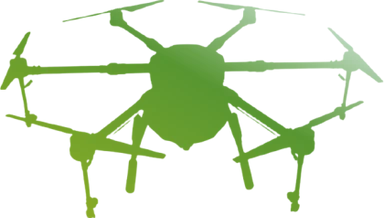
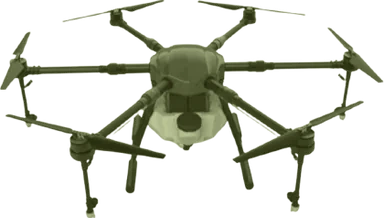
Brand-colour the skill marks, unbox the tab rails, separate the timeline
The colourise pass poured a gradient through each logo's alpha channel, which
filled the silhouette and discarded the picture inside it. It now builds a
duotone: luminance from the original artwork, hue from the brand, with both
ends of the ramp pinned to fixed luminance targets so a dark brand like
PhenoCam's green still has tonal range to work with. Every mark keeps its shape
and carries its own colour, so the second detail layer painted over the top is
gone along with the photographic special-case it needed.

The Education/Experience and Field instruments/Software switchers drew a border
around a box that held bordered buttons — two hard rectangles around one
control. One hairline runs under the rail now and the active tab claims a
segment of it in the accent ink, the same rule the section headings use.

Education and work entries had nothing between them but padding. A rule now
runs the length of the list with each institution's mark as a node on it, and
a hairline closes off every entry.

Also:

- Kasi wears the site's stock. It was white-on-blur with white borders, which
  read as a different product bolted onto the corner; it is now the page's own
  paper and grain behind the same frosted glass.
- On a phone, a publication's figure was the last cell of a one-column grid, so
  it stranded at the bottom of the card a screen below the paper it belongs to.
  Below the three-column breakpoint it sits under the title instead.
- The map moves below the contact form.
[…]

diff --git a/src/app/globals.css b/src/app/globals.css
@@ -292,6 +292,47 @@
     z-index: 1;
   }
 
+  /* Degrees and posts used to sit in one undivided run with nothing but
+     padding between them. A single rule now travels the length of the list and
+     every entry hangs its mark on it, with a hairline closing each entry off —
+     one sequence with visible stops instead of stacked paragraphs. */
+  .timeline {
+    position: relative;
+  }
+
+  .timeline::before {
+    content: "";
+    position: absolute;
+    top: 1.25rem;
+    bottom: 1.25rem;
+    left: -1.23rem;
+    width: 1px;
+    background: linear-gradient(
+      to bottom,
+      transparent,
+      hsl(var(--border)) 6%,
+      hsl(var(--border)) 94%,
+      transparent
+    );
+  }
+
+  .timeline-entry + .timeline-entry {
+    border-top: 1px solid hsl(var(--border) / 0.5);
+  }
+
+  /* The mark has to sit on the rule, not behind it, so it carries the surface
+     colour of whichever band the list is printed on. */
+  .timeline-mark {
+    background: hsl(var(--paper-band-color, var(--card)));
+    box-shadow: 0 0 0 4px hsl(var(--paper-band-color, var(--card)));
+  }
+
+  @media (min-width: 640px) {
+    .timeline::before {
+      left: -1.45rem;
+    }
+  }
+
   .paper-band--sage {
     --paper-band-color: var(--surface-sage);
   }
@@ -342,33 +383,9 @@
     filter: saturate(0.85) contrast(0.98) brightness(0.98);
   }
 
-  /* A photograph stands on its own; the colour-layer treatment would only
-     wash it out. */
-  .skill-logo-photo {
-    opacity: 1;
-    filter: saturate(0.94) contrast(1.02);
-  }
-
-  .dark .skill-logo-photo {
-    filter: saturate(0.9) contrast(1.05) brightness(1.08);
-  }
-
-  /* At 0.22 the glyph could not survive on top of a colour layer that is a
-     featureless gradient — the Esri globe and the FARO "S" were invisible. */
-  .skill-logo-detail {
-    opacity: 0.46;
-    mix-blend-mode: multiply;
-  }
-
   .dark .skill-logo-color {
     opacity: 0.96;
     filter: saturate(0.92) contrast(1.05) brightness(1.2);
-  }
-
-  .dark .skill-logo-detail {
-    opacity: 0.34;
-    filter: invert(1);
-    mix-blend-mode: screen;
   }
 
   /* A sheet laid on the desk: a hairline edge, a tight contact shadow where it
@@ -448,6 +465,38 @@
       .maplibregl-ctrl-attrib-inner {
       display: block !important;
     }
+  }
+
+  /* Paper seen through frosted glass. The panel used to be white-on-blur with
+     white borders, which read as a different product bolted onto the corner of
+     the page; it now carries the site's own stock, grain and ink. */
+  .kasi-glass {
+    background-color: hsl(var(--card) / 0.74);
+    background-image: url("/img/paper-grain.png");
+    background-size: 128px 128px;
+    border-color: hsl(var(--border) / 0.6);
+    backdrop-filter: blur(22px) saturate(1.35);
+    box-shadow:
+      inset 0 1px 0 hsl(0 0% 100% / 0.55),
+      0 2px 6px hsl(var(--foreground) / 0.06),
+      0 24px 64px -20px hsl(var(--foreground) / 0.3);
+  }
+
+  .dark .kasi-glass {
+    background-color: hsl(var(--card) / 0.78);
+    border-color: hsl(var(--border) / 0.7);
+    box-shadow:
+      inset 0 1px 0 hsl(0 0% 100% / 0.07),
+      0 2px 6px hsl(0 0% 0% / 0.35),
+      0 24px 64px -20px hsl(0 0% 0% / 0.6);
+  }
+
+  .kasi-divider {
+    border-color: hsl(var(--border) / 0.55);
+  }
+
+  .kasi-divider:hover {
+    background-color: hsl(var(--accent-ink) / 0.06);
   }
 
   .header-icon-button {

diff --git a/src/lib/skill-assets.ts b/src/lib/skill-assets.ts
@@ -1,49 +1,19 @@
 /**
- * Most skill logos are flat marks, and the colourised variant under
- * `/skills/color/` gives them their brand colour while the original supplies
- * the glyph on top. That trick only works on artwork with a silhouette worth
- * filling. These entries are photographs of instruments and aircraft, where
- * the colouriser flattens the whole subject into one blob and the equipment
- * disappears — a green lozenge where the PhenoCam should be. They render from
- * the original frame instead.
+ * `/skills/color/` holds a brand-coloured duotone of each mark, built by
+ * scripts/colorize-skill-icons.mjs. It keeps the original artwork's luminance,
+ * so a photographed instrument still reads as that instrument — which is why
+ * nothing needs a second detail layer painted over it any more.
  */
-const PHOTOGRAPHIC_LOGOS = new Set([
-  "agridrone",
-  "digitallevel",
-  "dji",
-  "emlid",
-  "ideaforge",
-  "phenocam",
-  "sokkia",
-  "spectroradiometer",
-  "theodolite",
-  "tls",
-  "trimble",
-  "trinity",
-  "ts",
-]);
-
-function skillLogoName(logo: string) {
-  if (!logo.startsWith("/skills/")) return null;
-  const filename = logo.split("/").pop();
-  if (!filename) return null;
-  return filename.replace(/\.[^.]+$/, "");
-}
-
-export function isPhotographicSkillLogo(logo: string) {
-  const name = skillLogoName(logo);
-  return name !== null && PHOTOGRAPHIC_LOGOS.has(name);
-}
-
 export function getColorSkillLogo(logo: string) {
-  const name = skillLogoName(logo);
-  if (name === null) return logo;
-  if (PHOTOGRAPHIC_LOGOS.has(name)) return `/skills/${name}.webp`;
-  return `/skills/color/${name}.webp`;
+  if (!logo.startsWith("/skills/")) return logo;
+  const filename = logo.split("/").pop();
+  if (!filename) return logo;
+  return `/skills/color/${filename.replace(/\.[^.]+$/, ".webp")}`;
 }
 
 export function getOriginalSkillLogo(logo: string) {
-  const name = skillLogoName(logo);
-  if (name === null) return logo;
-  return `/skills/${name}.webp`;
+  if (!logo.startsWith("/skills/")) return logo;
+  const filename = logo.split("/").pop();
+  if (!filename) return logo;
+  return `/skills/${filename.replace(/\.[^.]+$/, ".webp")}`;
 }

diff --git a/src/components/SectionSwitcher.tsx b/src/components/SectionSwitcher.tsx
@@ -1,11 +1,18 @@
 import { cn } from "@/lib/utils";
 import type { LucideIcon } from "lucide-react";
 
+/**
+ * A bordered box holding bordered buttons drew two hard rectangles around the
+ * same control. One hairline runs under the whole rail instead, and the active
+ * tab claims a segment of it in the accent ink — the same rule the section
+ * headings use, so the switcher reads as part of the page rather than as a
+ * widget dropped onto it.
+ */
 export const sectionSwitcherListClass =
-  "border-border/65 bg-card/58 grid h-auto w-full grid-cols-2 gap-1 rounded-md border p-1 shadow-sm";
+  "border-border/60 grid h-auto w-full grid-cols-2 gap-0 rounded-none border-0 border-b bg-transparent p-0 shadow-none";
 
 export const sectionSwitcherTriggerClass =
-  "group relative flex h-auto min-w-0 items-center justify-start gap-2 rounded-sm border border-transparent bg-transparent px-2 py-2 text-left text-sm shadow-none transition-colors sm:gap-2.5 sm:px-3 data-[state=active]:border-border/70 data-[state=active]:bg-background/82 data-[state=active]:text-foreground data-[state=active]:shadow-sm";
+  "group relative flex h-auto min-w-0 items-center justify-start gap-2 rounded-none border-0 bg-transparent px-1 pt-2 pb-3 text-left text-sm shadow-none transition-colors sm:gap-3 sm:px-2 after:absolute after:inset-x-0 after:-bottom-px after:h-[2px] after:origin-left after:scale-x-0 after:bg-[hsl(var(--accent-ink))] after:transition-transform after:duration-200 data-[state=active]:after:scale-x-100 data-[state=active]:bg-transparent data-[state=active]:shadow-none data-[state=inactive]:text-muted-foreground data-[state=inactive]:hover:text-foreground";
 
 const toneClasses = {
   sky: "bg-sky-500/11 text-sky-700 dark:text-sky-300",
@@ -31,7 +38,7 @@ export function SectionSwitcherVisual({
     <>
       <span
         className={cn(
-          "grid size-7 shrink-0 place-items-center rounded-sm sm:size-8",
+          "grid size-7 shrink-0 place-items-center rounded-full transition-opacity group-data-[state=inactive]:opacity-55 sm:size-8",
           toneClasses[tone],
         )}
       >

diff --git a/src/lib/map/map-style.ts b/src/lib/map/map-style.ts
@@ -33,8 +33,6 @@ const palette = {
     water: "#0a1319",
     green: "#1e2b26",
     builtUp: "#212b31",
-    building: "#28333a",
-    buildingTop: "#33424b",
     roadMinor: "#2b363d",
     roadMajor: "#3a4952",
     roadTrunk: "#5d5138",
@@ -53,8 +51,6 @@ const palette = {
     water: "#c6d7dd",
     green: "#e1e7d4",
     builtUp: "#e9e3d5",
-    building: "#ded8c9",
-    buildingTop: "#efeade",
     roadMinor: "#fdfcf8",
     roadMajor: "#ffffff",
     roadTrunk: "#f2dfae",
@@ -153,18 +149,6 @@ export function createMapStyle(theme: MapTheme): StyleSpecification {
         paint: {
           "line-color": c.water,
           "line-width": ["interpolate", ["linear"], ["zoom"], 8, 0.6, 16, 3],
-        },
-      },
-      {
-        id: "building",
-        type: "fill",
-        source: "basemap",
-        "source-layer": "building",
-        minzoom: 13,
-        paint: {
-          "fill-color": c.building,
-          "fill-opacity": ["interpolate", ["linear"], ["zoom"], 13, 0, 15, 0.9],
-          "fill-outline-color": c.buildingTop,
         },
       },
       {
@@ -311,8 +295,6 @@ export function applyMapTheme(map: MapLibreMap, theme: MapTheme) {
   set("waterway", "line-color", c.water);
   set("landcover-green", "fill-color", c.green);
   set("landuse-builtup", "fill-color", c.builtUp);
-  set("building", "fill-color", c.building);
-  set("building", "fill-outline-color", c.buildingTop);
   set("road-minor", "line-color", c.roadMinor);
   set("road-major", "line-color", c.roadMajor);
   set("road-trunk", "line-color", c.roadTrunk);
@@ -332,7 +314,6 @@ const GROUND_COVER_LAYERS = [
   "landuse-builtup",
   "water",
   "waterway",
-  "building",
 ];
 
 export function setImageryVisible(map: MapLibreMap, visible: boolean) {

diff --git a/src/components/SkillLogoTile.tsx b/src/components/SkillLogoTile.tsx
@@ -1,11 +1,6 @@
 import ImageWithSkeleton from "@/components/ImageWithSkeleton";
-import {
-  getColorSkillLogo,
-  getOriginalSkillLogo,
-  isPhotographicSkillLogo,
-} from "@/lib/skill-assets";
+import { getColorSkillLogo } from "@/lib/skill-assets";
 import { cn } from "@/lib/utils";
-import Image from "next/image";
 
 export default function SkillLogoTile({
   logo,
@@ -18,10 +13,6 @@ export default function SkillLogoTile({
   className?: string;
   imageClassName?: string;
 }) {
-  // A photograph is already its own detail layer; overlaying a second copy of
-  // it in multiply just dirties the frame.
-  const photographic = isPhotographicSkillLogo(logo);
-
   return (
     <span
       className={cn(
@@ -38,24 +29,10 @@ export default function SkillLogoTile({
         containerClassName="h-full w-full"
         skeletonClassName="bg-muted/55"
         className={cn(
-          "h-full w-full object-contain p-2.5 transition-[filter,transform] duration-200 group-hover/tool:scale-[1.02]",
-          photographic ? "skill-logo-photo" : "skill-logo-color",
+          "skill-logo-color h-full w-full object-contain p-2.5 transition-[filter,transform] duration-200 group-hover/tool:scale-[1.02]",
           imageClassName,
         )}
       />
-      {!photographic && (
-        <Image
-          src={getOriginalSkillLogo(logo)}
-          alt=""
-          fill
-          aria-hidden
-          sizes="96px"
-          className={cn(
-            "skill-logo-detail pointer-events-none object-contain p-2.5 transition-transform duration-200 group-hover/tool:scale-[1.02]",
-            imageClassName,
-          )}
-        />
-      )}
     </span>
   );
 }

diff --git a/src/components/Chat.tsx b/src/components/Chat.tsx
@@ -115,14 +115,14 @@ export default function Chat() {
         <AccordionItem
           ref={chatRootRef}
           value="item-1"
-          className={`fixed right-4 bottom-[4.75rem] overflow-hidden border border-white/60 bg-white/72 shadow-[0_24px_70px_rgba(15,23,42,0.16)] backdrop-blur-3xl transition-all duration-300 ease-out sm:right-8 sm:bottom-8 dark:border-white/10 dark:bg-zinc-900/88 dark:shadow-[0_24px_80px_rgba(0,0,0,0.36)] ${
+          className={`kasi-glass fixed right-4 bottom-[4.75rem] overflow-hidden border transition-all duration-300 ease-out sm:right-8 sm:bottom-8 ${
             isExpanded
               ? "left-4 w-auto rounded-md sm:left-auto sm:w-[420px]"
               : "block w-[52px] rounded-md sm:w-[172px]"
           }`}
         >
           <AccordionTrigger
-            className={`border-white/20 transition-colors hover:bg-white/24 hover:no-underline dark:border-white/10 dark:hover:bg-white/5 [&>svg:last-child]:hidden ${
+            className={`kasi-divider transition-colors hover:no-underline [&>svg:last-child]:hidden ${
               isExpanded
                 ? "border-b px-5 py-3.5"
                 : "h-[52px] px-2 py-2 sm:h-[64px] sm:px-3"

diff --git a/src/components/TimelineItem.tsx b/src/components/TimelineItem.tsx
@@ -13,8 +13,8 @@ export default function TimelineItem({ experience }: Props) {
   const logoArray = logos || (logo ? [logo] : []);
 
   return (
-    <li className="relative ml-4 py-3 sm:ml-5 sm:py-3.5">
-      <div className="absolute top-3 -left-[2.35rem] flex flex-col sm:-left-[2.7rem]">
+    <li className="timeline-entry relative ml-4 py-5 sm:ml-5 sm:py-6">
+      <div className="absolute top-5 -left-[2.35rem] flex flex-col sm:top-6 sm:-left-[2.7rem]">
         {logoArray.map((logoSrc, idx) => {
           return (
             <Link
@@ -22,7 +22,7 @@ export default function TimelineItem({ experience }: Props) {
               href={href}
               target="_blank"
               rel="noreferrer"
-              className="flex size-9 items-center justify-center overflow-hidden rounded-full transition-transform duration-200 hover:scale-[1.04] sm:size-10"
+              className="timeline-mark flex size-9 items-center justify-center overflow-hidden rounded-full transition-transform duration-200 hover:scale-[1.04] sm:size-10"
             >
               <Image
                 src={logoSrc}

diff --git a/src/components/PublicationsWithSearch.tsx b/src/components/PublicationsWithSearch.tsx
@@ -576,7 +576,11 @@ function PublicationCard({
         </div>
 
         {hasMedia && publication.media && (
-          <div className="border-border/55 min-w-0 border-t pt-4 lg:border-t-0 lg:border-l lg:pt-0 lg:pl-4">
+          // In one column this is the last grid cell, which stranded the figure
+          // at the very bottom of the card, a full screen below the paper it
+          // belongs to. Below the three-column breakpoint it moves up under the
+          // title instead, where a figure belongs.
+          <div className="border-border/55 order-first flex min-w-0 justify-center border-b pb-4 lg:order-none lg:block lg:border-t-0 lg:border-b-0 lg:border-l lg:pt-0 lg:pl-4">
             <PublicationMediaPreview media={publication.media} />
           </div>
         )}

diff --git a/src/app/contact/page.tsx b/src/app/contact/page.tsx
@@ -18,7 +18,9 @@ export default function ContactPage() {
         </p>
       </header>
 
-      {/* Same surface and padding as the form below, so the map's edges line
+      <ContactForm />
+
+      {/* Same surface and padding as the form above, so the map's edges line
           up with the form fields instead of running 28px wider than them. */}
       <section className="contact-surface record-surface flex flex-col gap-3">
         <div className="map-frame">
@@ -29,8 +31,6 @@ export default function ContactPage() {
           great circle between us and measures it.
         </p>
       </section>
-
-      <ContactForm />
     </article>
   );
 }

diff --git a/src/components/Timeline.tsx b/src/components/Timeline.tsx
@@ -7,7 +7,7 @@ interface Props {
 
 export default function Timeline({ experience }: Props) {
   return (
-    <ul className="ml-4 sm:ml-5">
+    <ul className="timeline ml-4 sm:ml-5">
       {experience.map((exp, id) => (
         <TimelineItem key={id} experience={exp} />
       ))}
